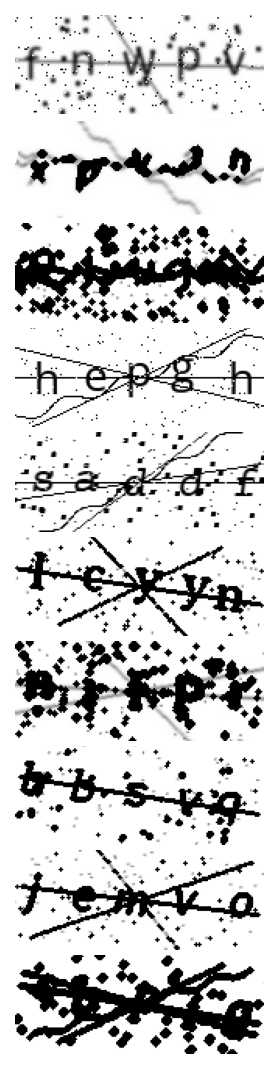
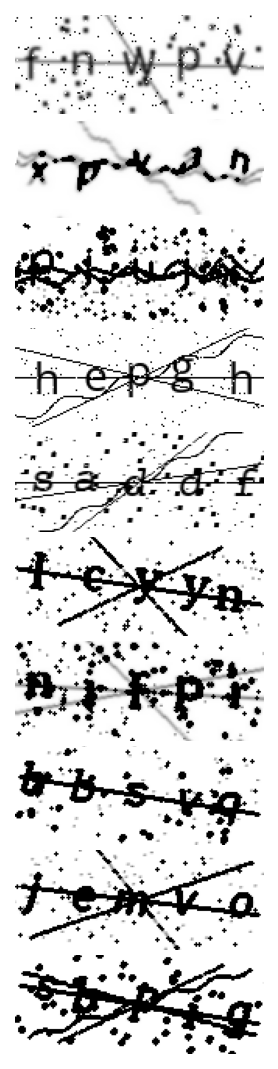
auto-commit

diff --git a/generate/distortions.py b/generate/distortions.py
@@ -37,17 +37,22 @@ def apply_easy_line(img: np.ndarray, rng: np.random.Generator) -> np.ndarray:
 
 
 def apply_hard_line(img: np.ndarray, rng: np.random.Generator) -> np.ndarray:
-    # One line at a random angle; 50% chance of sinusoidal waviness
+    # One straight line at a random angle
     pil = Image.fromarray(img)
     draw = ImageDraw.Draw(pil)
     angle_rad = np.deg2rad(rng.uniform(-30, 30))
-    cx, cy = IMG_WIDTH / 2, IMG_HEIGHT / 2
-    if rng.random() < 0.5:
-        amplitude = rng.uniform(2, 5)
-        wavelength = rng.uniform(20, 50)
-        _draw_wavy_line(draw, cx, cy, angle_rad, amplitude, wavelength)
-    else:
-        _draw_straight_line(draw, cx, cy, angle_rad)
+    _draw_straight_line(draw, IMG_WIDTH / 2, IMG_HEIGHT / 2, angle_rad)
+    return np.array(pil)
+
+
+def apply_wavy_line(img: np.ndarray, rng: np.random.Generator) -> np.ndarray:
+    # One sinusoidal line at a random angle
+    pil = Image.fromarray(img)
+    draw = ImageDraw.Draw(pil)
+    angle_rad = np.deg2rad(rng.uniform(-30, 30))
+    amplitude = rng.uniform(2, 5)
+    wavelength = rng.uniform(20, 50)
+    _draw_wavy_line(draw, IMG_WIDTH / 2, IMG_HEIGHT / 2, angle_rad, amplitude, wavelength)
     return np.array(pil)
 
 
